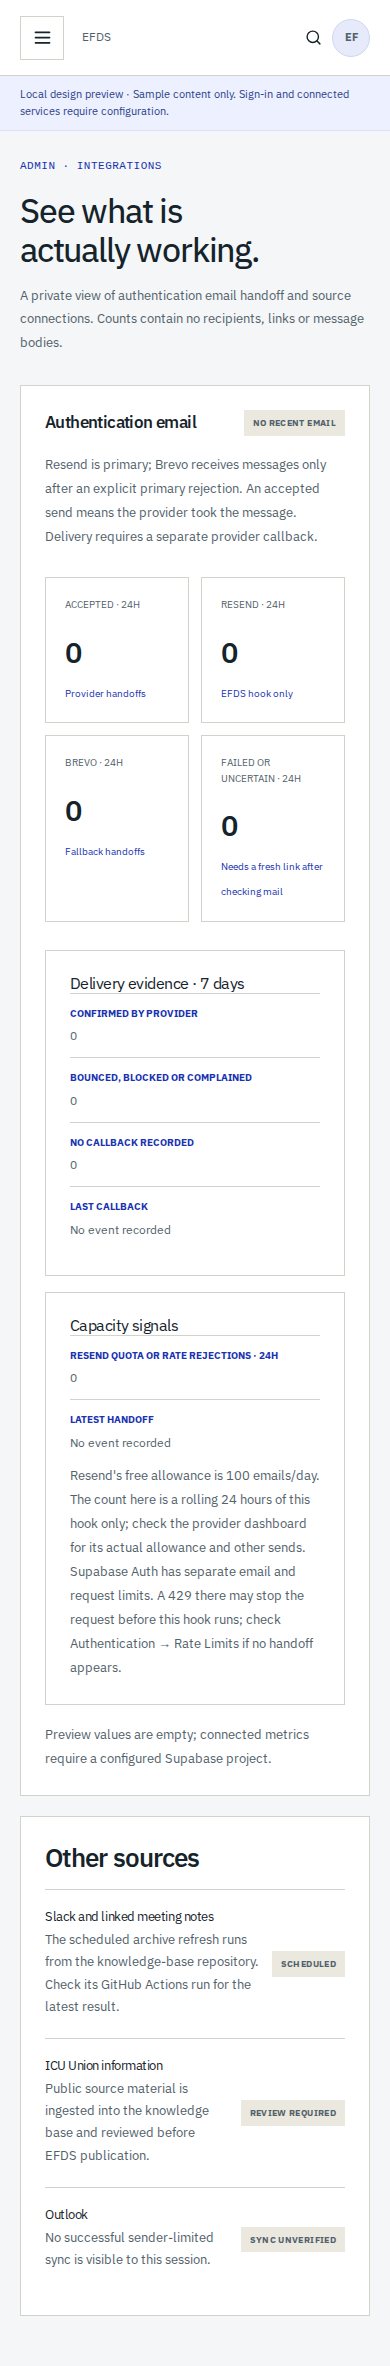
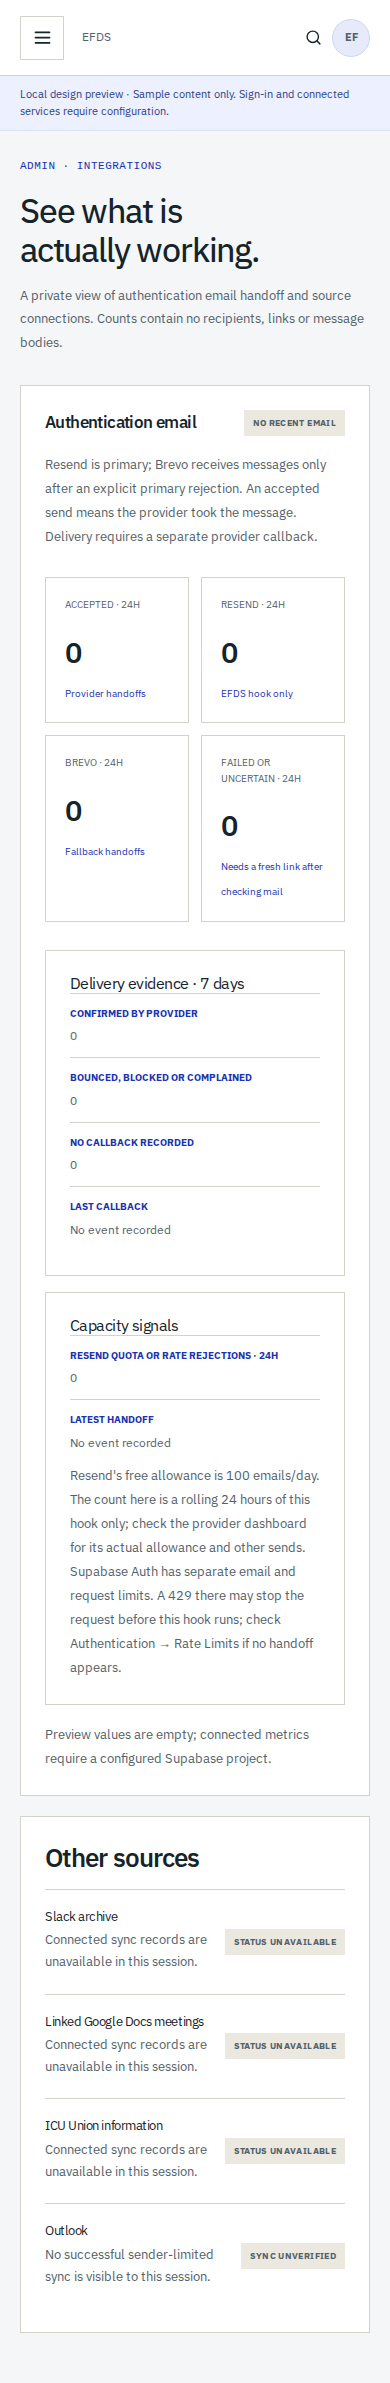
Show live source freshness in admin integrations

Changed region(s): [[0.0923, 0.5554, 0.8923, 0.9565], [0.0615, 0.0, 0.9231, 0.5245], [0.6154, 0.0309, 0.6462, 0.0617]]

diff --git a/app/admin/integrations/page.tsx b/app/admin/integrations/page.tsx
@@ -1,24 +1,39 @@
 import type { Metadata } from "next";
 import { isSupabaseConfigured } from "@/lib/config";
 import { getAuthEmailHealth } from "@/lib/db/auth-email-health";
+import { getSourceHealth, syncState, type SourceRun } from "@/lib/db/source-health";
 import { getOutlookSyncStatus } from "@/lib/db/tickets";
 
 export const metadata: Metadata = { title: "Integration health" };
 export const dynamic = "force-dynamic";
 
 function date(value: string | null) {
-  return value
+  return value && Number.isFinite(Date.parse(value))
     ? new Intl.DateTimeFormat("en-GB", {
       dateStyle: "medium", timeStyle: "short", timeZone: "Europe/London",
     }).format(new Date(value))
     : "No event recorded";
 }
 
+function runDescription(run: SourceRun | null) {
+  return run ? `${(run.status ?? "Unknown status").replaceAll("_", " ")} · ${date(run.finishedAt ?? run.startedAt)}` : "No import recorded";
+}
+
+const stateLabels = { fresh: "Fresh", overdue: "Refresh overdue", failed: "Check sync", refreshing: "Refreshing" } as const;
+
+function SourceRow({ title, description, badge, attention = false, fresh = false }: { title: string; description: string; badge: string; attention?: boolean; fresh?: boolean }) {
+  return <div className="queue-row"><div><h3>{title}</h3><p>{description}</p></div><span className={`badge ${attention ? "badge-coral" : fresh ? "badge-mint" : "badge-neutral"}`}>{badge}</span></div>;
+}
+
 export default async function AdminIntegrationsPage() {
-  const [email, outlookLastSync] = await Promise.all([getAuthEmailHealth(), getOutlookSyncStatus()]);
+  const [email, outlookLastSync, sources] = await Promise.all([getAuthEmailHealth(), getOutlookSyncStatus(), getSourceHealth()]);
   const attention = email.failed24h > 0 || email.quotaSignals24h > 0 || email.bounced7d > 0;
   const noRecentEmail = email.accepted24h === 0 && email.delivered7d === 0;
   const emailStatus = attention ? "Check delivery" : email.awaitingEvent7d > 0 ? "Delivery unverified" : noRecentEmail ? "No recent email" : "No recorded failures";
+  const sourceUnavailable = !isSupabaseConfigured || sources.unavailable;
+  const slackState = sourceUnavailable || !sources.enabledSlackChannels ? null : syncState(sources.oldestSlackSyncAt, sources.slackRun);
+  const meetingState = sourceUnavailable || !sources.meetingsRun ? null : syncState(sources.meetingsRun.finishedAt, sources.meetingsRun);
+  const icuState = sourceUnavailable || !sources.icuRun ? null : syncState(sources.icuRun.finishedAt, sources.icuRun, undefined, 24 * 30);
   return <div className="app-content">
     <div className="eyebrow">Admin · integrations</div>
     <h1>See what is<br />actually working.</h1>
@@ -41,9 +56,10 @@ export default async function AdminIntegrationsPage() {
       {!isSupabaseConfigured && <p className="muted" style={{ marginTop: 18 }}>Preview values are empty; connected metrics require a configured Supabase project.</p>}
     </section>
     <section className="surface info-card" style={{ marginTop: 20 }} aria-labelledby="source-status-heading"><h2 id="source-status-heading">Other sources</h2>
-      <div className="queue-row"><div><h3>Slack and linked meeting notes</h3><p>The scheduled archive refresh runs from the knowledge-base repository. Check its GitHub Actions run for the latest result.</p></div><span className="badge badge-neutral">Scheduled</span></div>
-      <div className="queue-row"><div><h3>ICU Union information</h3><p>Public source material is ingested into the knowledge base and reviewed before EFDS publication.</p></div><span className="badge badge-neutral">Review required</span></div>
-      <div className="queue-row"><div><h3>Outlook</h3><p>{outlookLastSync ? `Last successful sender-limited sync: ${date(outlookLastSync)}. This does not confirm that mailbox access is still active.` : "No successful sender-limited sync is visible to this session."}</p></div><span className="badge badge-neutral">{outlookLastSync ? "Previously synced" : "Sync unverified"}</span></div>
+      <SourceRow title="Slack archive" description={sourceUnavailable ? "Connected sync records are unavailable in this session." : sources.enabledSlackChannels ? `${sources.enabledSlackChannels} enabled channels. Oldest channel checkpoint: ${date(sources.oldestSlackSyncAt)}. Latest import: ${runDescription(sources.slackRun)}.` : "No enabled channels are visible. Check the archive settings and access."} badge={sourceUnavailable ? "Status unavailable" : slackState ? stateLabels[slackState] : "No channels"} attention={slackState === "failed" || slackState === "overdue"} fresh={slackState === "fresh"} />
+      <SourceRow title="Linked Google Docs meetings" description={sourceUnavailable ? "Connected sync records are unavailable in this session." : `Latest import: ${runDescription(sources.meetingsRun)}. Meeting notes are collected from links in the enabled Slack meetings channel.`} badge={sourceUnavailable ? "Status unavailable" : meetingState ? stateLabels[meetingState] : "No import"} attention={meetingState === "failed" || meetingState === "overdue"} fresh={meetingState === "fresh"} />
+      <SourceRow title="ICU Union information" description={sourceUnavailable ? "Connected sync records are unavailable in this session." : `Latest public-source import: ${runDescription(sources.icuRun)}.${sources.icuRun?.limited ? " Limited import; missing pages were not reconciled." : ""} Material still needs EFDS review before publication.`} badge={sourceUnavailable ? "Status unavailable" : icuState === "failed" ? "Check sync" : icuState === "overdue" ? "Review freshness" : sources.icuRun?.limited ? "Partial import" : icuState === "fresh" ? "Recently imported" : "No import"} attention={icuState === "failed"} fresh={icuState === "fresh" && !sources.icuRun?.limited} />
+      <SourceRow title="Outlook" description={outlookLastSync ? `Last successful sender-limited sync: ${date(outlookLastSync)}. This does not confirm that mailbox access is still active.` : "No successful sender-limited sync is visible to this session."} badge={outlookLastSync ? "Previously synced" : "Sync unverified"} />
     </section>
   </div>;
 }

diff --git a/lib/db/source-health.ts b/lib/db/source-health.ts
@@ -1,0 +1,87 @@
+import "server-only";
+
+import { requireRole } from "@/lib/auth/server";
+import { isSupabaseConfigured } from "@/lib/config";
+import { createServerSupabaseClient } from "@/lib/supabase/server";
+
+export type SourceRun = {
+  status: string | null;
+  startedAt: string | null;
+  finishedAt: string | null;
+  failedCount: number;
+  limited: boolean;
+};
+
+export type SourceHealth = {
+  unavailable: boolean;
+  enabledSlackChannels: number;
+  oldestSlackSyncAt: string | null;
+  slackRun: SourceRun | null;
+  meetingsRun: SourceRun | null;
+  icuRun: SourceRun | null;
+};
+
+const empty: SourceHealth = {
+  unavailable: false,
+  enabledSlackChannels: 0,
+  oldestSlackSyncAt: null,
+  slackRun: null,
+  meetingsRun: null,
+  icuRun: null,
+};
+
+function run(row: Record<string, unknown> | undefined): SourceRun | null {
+  if (!row) return null;
+  return {
+    status: typeof row.status === "string" ? row.status : null,
+    startedAt: typeof row.started_at === "string" ? row.started_at : null,
+    finishedAt: typeof row.finished_at === "string" ? row.finished_at : null,
+    failedCount: typeof row.records_failed === "number" ? row.records_failed : 0,
+    limited: Boolean(row.metadata && typeof row.metadata === "object" && (row.metadata as Record<string, unknown>).max_articles != null),
+  };
+}
+
+export function oldestCompleteSync(rows: { last_successful_sync_at: string | null }[]): string | null {
+  if (!rows.length || rows.some((row) => !row.last_successful_sync_at || !Number.isFinite(Date.parse(row.last_successful_sync_at)))) return null;
+  return rows.reduce((oldest, row) => Date.parse(row.last_successful_sync_at!) < Date.parse(oldest) ? row.last_successful_sync_at! : oldest, rows[0].last_successful_sync_at!);
+}
+
+export function syncState(lastSuccessAt: string | null, latestRun: SourceRun | null, now = Date.now(), overdueHours = 15): "fresh" | "overdue" | "failed" | "refreshing" {
+  if (latestRun?.status === "failed" || latestRun?.status === "completed_with_errors" || latestRun?.failedCount) return "failed";
+  if (latestRun?.status === "running") {
+    const started = latestRun.startedAt ? Date.parse(latestRun.startedAt) : NaN;
+    return Number.isFinite(started) && now >= started && now - started < 90 * 60 * 1000 ? "refreshing" : "failed";
+  }
+  if (!lastSuccessAt || !Number.isFinite(Date.parse(lastSuccessAt)) || now - Date.parse(lastSuccessAt) >= overdueHours * 60 * 60 * 1000) return "overdue";
+  return "fresh";
+}
+
+export async function getSourceHealth(): Promise<SourceHealth> {
+  if (!isSupabaseConfigured) return empty;
+  await requireRole("admin");
+  try {
+    const supabase = await createServerSupabaseClient();
+    const latestRun = (source: string) => supabase.from("ingestion_runs")
+      .select("status,started_at,finished_at,records_failed,metadata")
+      .eq("source_type", source).order("started_at", { ascending: false }).limit(1);
+    const [channels, slack, meetings, icu] = await Promise.all([
+      supabase.from("slack_channel_sync_settings").select("last_successful_sync_at").eq("enabled", true),
+      latestRun("slack"),
+      latestRun("google_docs_meetings"),
+      latestRun("icu_freshdesk"),
+    ]);
+    if (channels.error || slack.error || meetings.error || icu.error) throw new Error("source_health_query_failed");
+    const enabled = channels.data ?? [];
+    return {
+      unavailable: false,
+      enabledSlackChannels: enabled.length,
+      oldestSlackSyncAt: oldestCompleteSync(enabled),
+      slackRun: run(slack.data?.[0]),
+      meetingsRun: run(meetings.data?.[0]),
+      icuRun: run(icu.data?.[0]),
+    };
+  } catch {
+    console.error("Source health could not be loaded");
+    return { ...empty, unavailable: true };
+  }
+}

diff --git a/tests/source-health.test.ts b/tests/source-health.test.ts
@@ -1,0 +1,31 @@
+import { describe, expect, it, vi } from "vitest";
+
+vi.mock("@/lib/auth/server", () => ({ requireRole: vi.fn() }));
+vi.mock("@/lib/supabase/server", () => ({ createServerSupabaseClient: vi.fn() }));
+
+import { oldestCompleteSync, syncState, type SourceRun } from "@/lib/db/source-health";
+
+const now = Date.parse("2026-09-24T12:00:00Z");
+const completed: SourceRun = { status: "completed", startedAt: "2026-09-24T07:55:00Z", finishedAt: "2026-09-24T08:00:00Z", failedCount: 0, limited: false };
+
+describe("source sync health", () => {
+  it("uses the oldest enabled channel checkpoint so one missed channel cannot look fresh", () => {
+    const oldest = oldestCompleteSync([
+      { last_successful_sync_at: "2026-09-23T18:00:00Z" },
+      { last_successful_sync_at: "2026-09-24T08:00:00Z" },
+    ]);
+    expect(oldest).toBe("2026-09-23T18:00:00Z");
+    expect(syncState(oldest, completed, now)).toBe("overdue");
+    expect(oldestCompleteSync([{ last_successful_sync_at: null }, { last_successful_sync_at: "2026-09-24T08:00:00Z" }])).toBeNull();
+  });
+
+  it("makes a failed or partial latest import visible despite a fresh prior checkpoint", () => {
+    expect(syncState(completed.finishedAt, { ...completed, status: "completed_with_errors", failedCount: 1 }, now)).toBe("failed");
+    expect(syncState(completed.finishedAt, completed, now)).toBe("fresh");
+  });
+
+  it("distinguishes a live refresh from an overdue stalled run", () => {
+    expect(syncState(completed.finishedAt, { ...completed, status: "running", startedAt: "2026-09-24T11:45:00Z" }, now)).toBe("refreshing");
+    expect(syncState(completed.finishedAt, { ...completed, status: "running", startedAt: "2026-09-24T10:00:00Z" }, now)).toBe("failed");
+  });
+});
